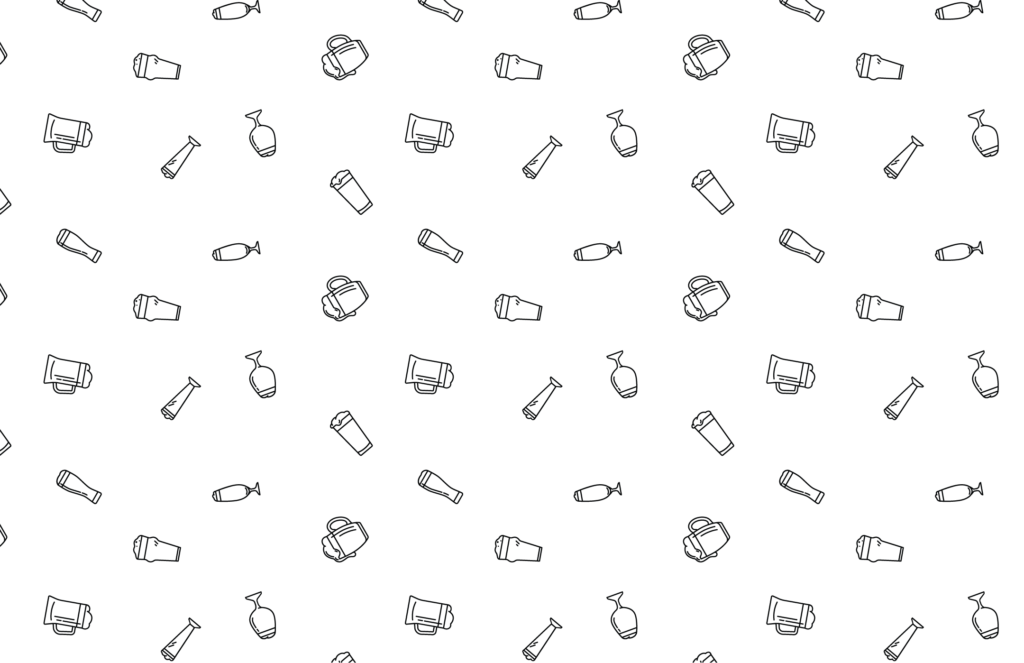
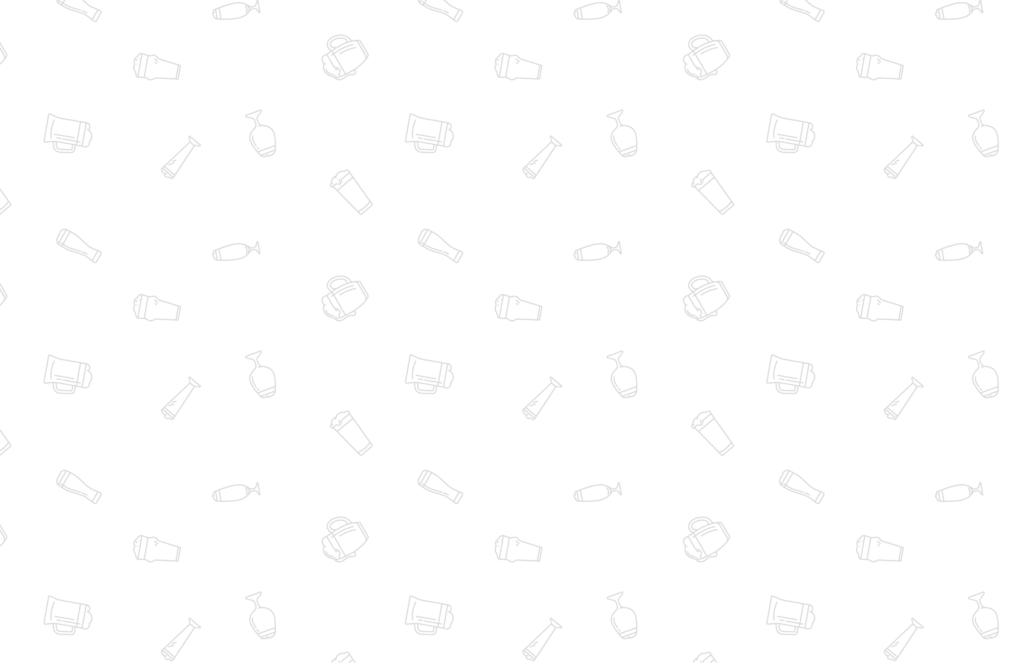
Se estiliza header y footer | v1.01 | Detalles en Readme

diff --git a/src/components/header.tsx b/src/components/header.tsx
@@ -4,8 +4,7 @@ import { Typography } from "@mui/material";
 
 const Header = () => {
     return (
-        <div className="w-full px-60 py-2" style={{backgroundColor: "#f7f6f5"}}>
-        {/* <div className="w-full px-60 py-2 hero" style={{backgroundColor: "#f7f6f5", backgroundImage: "url(beer-pattern.png)"}}> */}
+        <div className="w-full px-60 py-2 hero" style={{backgroundColor: "#f7f6f5", backgroundImage: "url(beer-pattern.png)"}}>
             <div className="flex w-full">
                 <div className="w-1/3 flex items-center justify-evenly">
                     <Typography variant="button" className="cursor-pointer">
@@ -33,7 +32,7 @@ const Header = () => {
                     </div>
                 </div>
                 <div className="w-1/3 flex items-center justify-evenly">
-                    <Button variant="contained" style={{backgroundColor: "#ac3051"}}>Sé en distribuidor</Button>
+                    <Button variant="contained" style={{backgroundColor: "#ac3051"}}>Sé un distribuidor</Button>
                     <Button variant="outlined" className="px-0" style={{color: "#ac3051", borderColor: "#ac3051"}} ><ShoppingBagOutlined/></Button>
                 </div>
             </div>

diff --git a/src/components/footer.tsx b/src/components/footer.tsx
@@ -6,7 +6,7 @@ import { Fragment } from "react";
 const Footer = () => {
     return (
         <Fragment>
-            <div className="w-full px-60 py-2" style={{backgroundColor: "#f7f6f5"}}>
+            <div className="w-full px-60 py-2" style={{backgroundImage: "url(beer-pattern.png)"}}>
             {/* <div className="w-full px-60 py-2 hero" style={{backgroundColor: "#f7f6f5", backgroundImage: "url(beer-pattern.png)"}}> */}
                 <div className="flex w-full">
                     <div className="w-1/4 flex items-center justify-center">

diff --git a/README.md b/README.md
@@ -8,3 +8,10 @@
 ##### 4°  Se genera componente footer
 
 ----------
+## **v1.01**
+
+### **Se estiliza header y footer** | **Resumen general de avances**
+
+##### 1°  Se añade imagen patrón a header y footer
+
+----------
